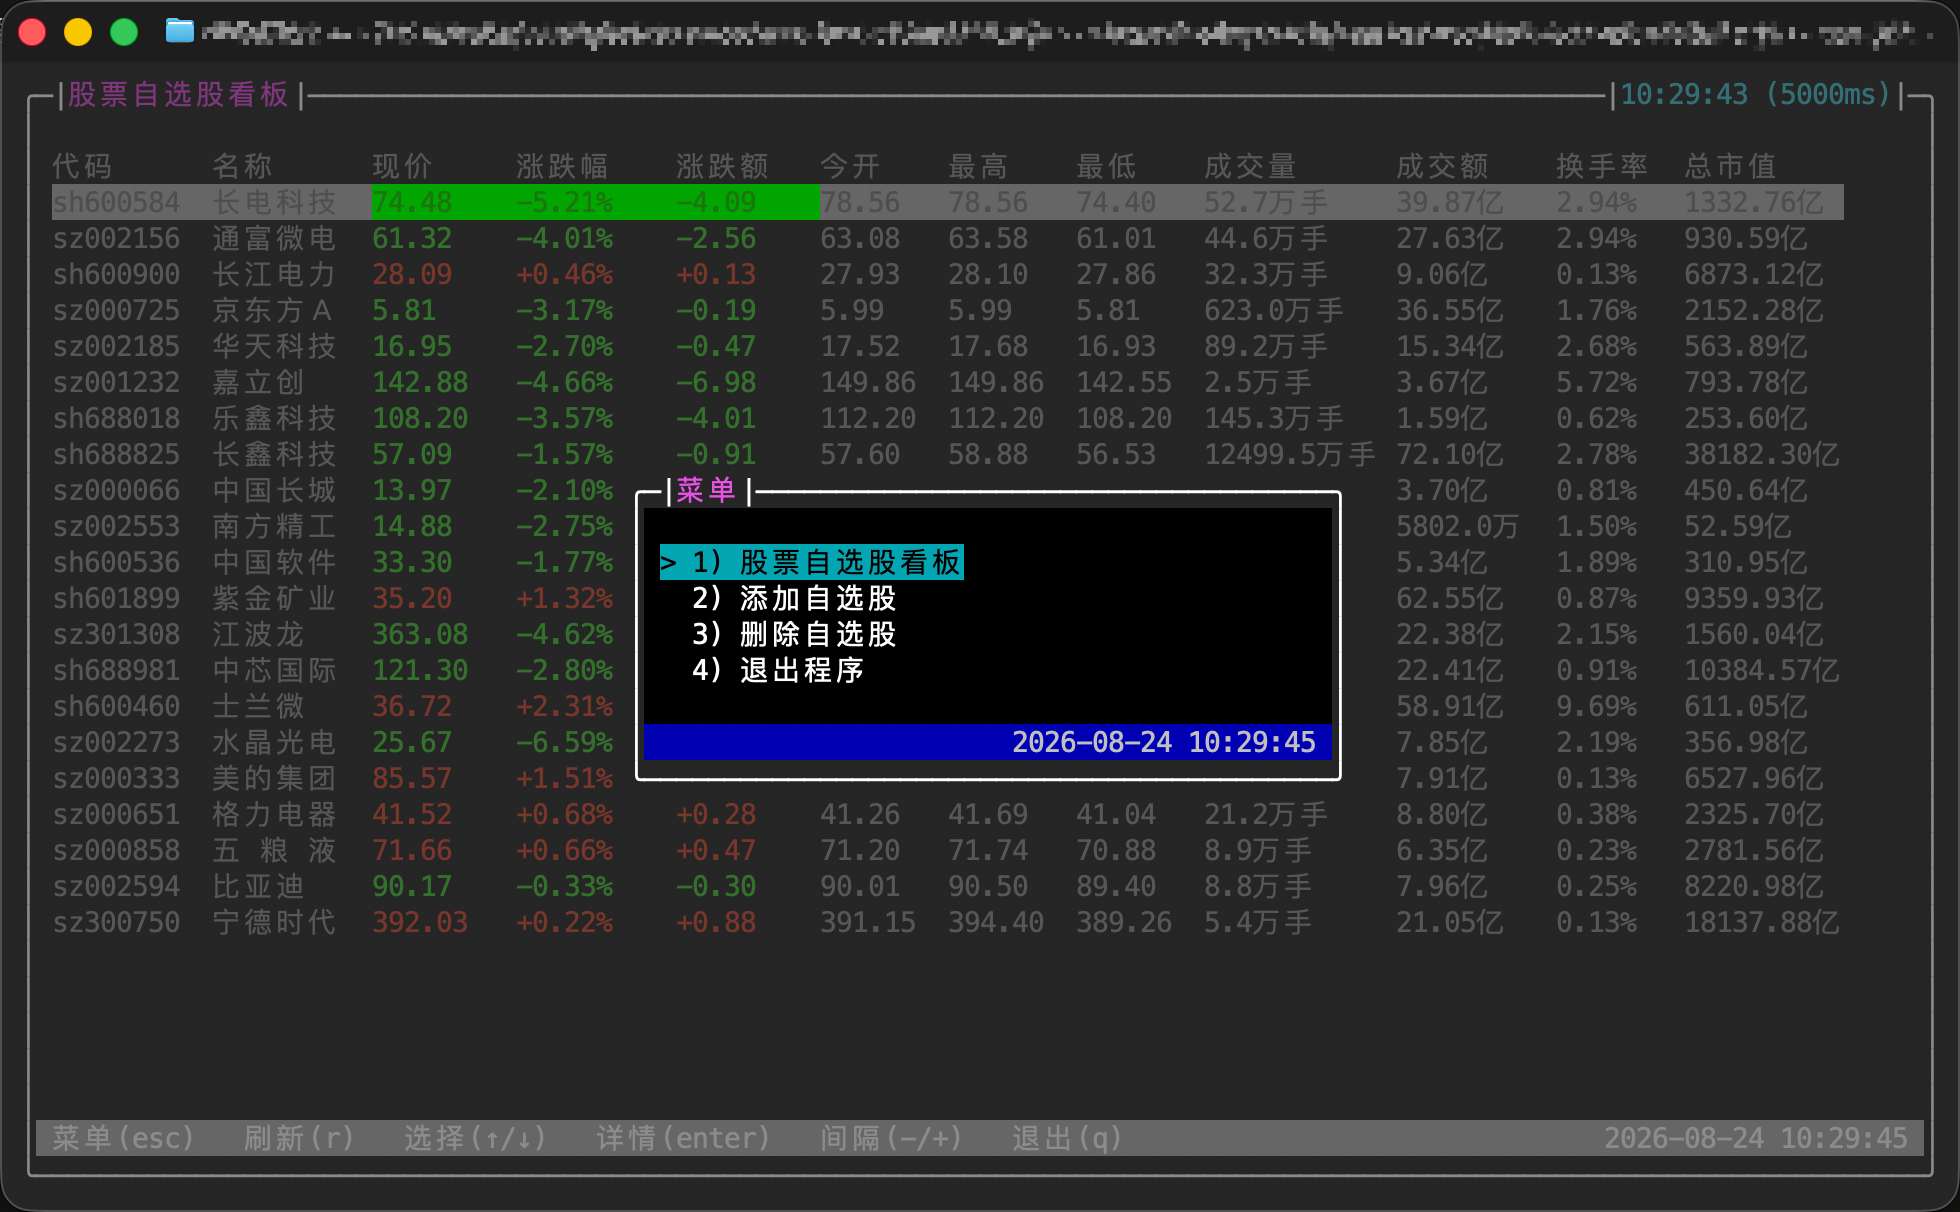
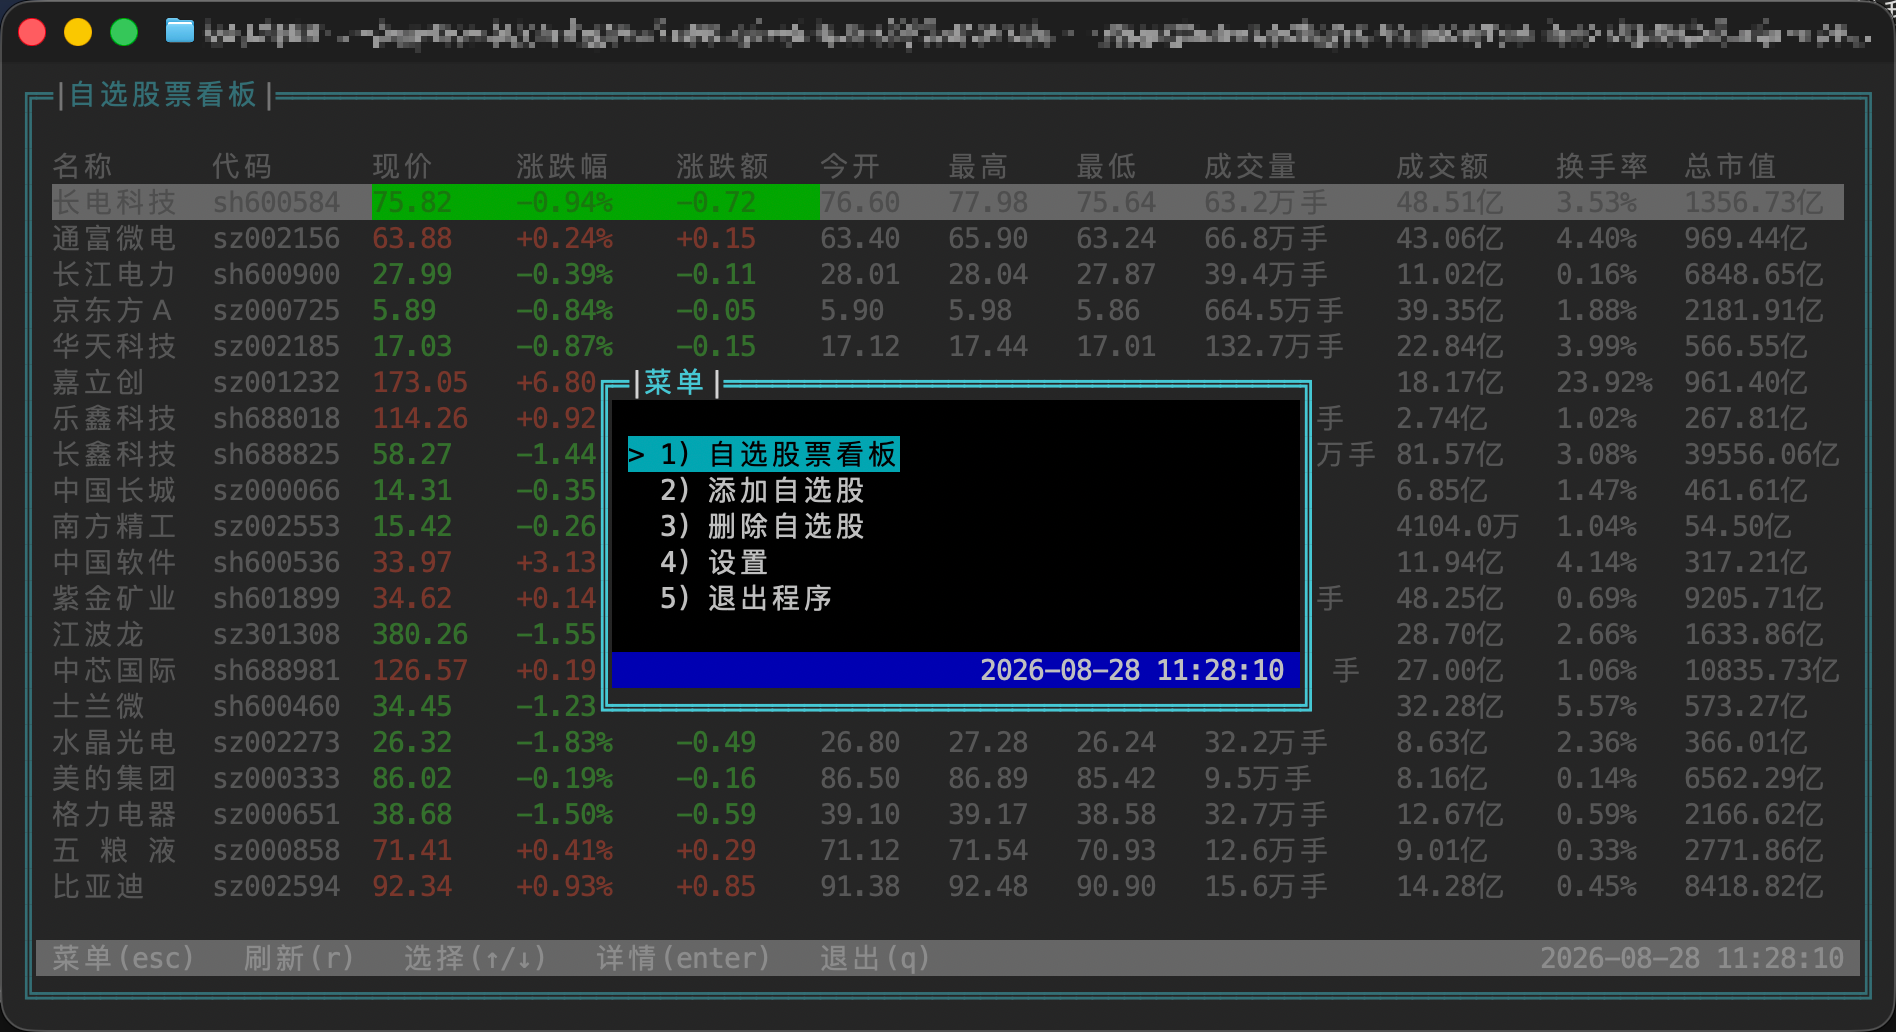
docs: 更新截图并优化 README 预览布局

Changed region(s): [[0.0, 0.0, 1.0, 0.9922]]

diff --git a/README.md b/README.md
@@ -10,34 +10,58 @@
 
 ### Stock Watchlist
 
-![Stock watchlist dashboard](scrennshots/stock-list.png)
+<p align="center">
+  <img src="scrennshots/stock-list.png" alt="Stock watchlist dashboard" width="100%">
+</p>
 
-### Menu
+### Menu & Settings
 
-![Menu dialog](scrennshots/dialog-menu.png)
+<table>
+  <tr>
+    <td align="center" width="50%"><strong>Menu</strong></td>
+    <td align="center" width="50%"><strong>Settings</strong></td>
+  </tr>
+  <tr>
+    <td><img src="scrennshots/dialog-menu.png" alt="Menu dialog"></td>
+    <td><img src="scrennshots/settings.png" alt="Settings screen"></td>
+  </tr>
+</table>
+
+### Manage Watchlist
+
+<table>
+  <tr>
+    <td align="center" width="50%"><strong>Add Stock</strong></td>
+    <td align="center" width="50%"><strong>Remove Stock</strong></td>
+  </tr>
+  <tr>
+    <td><img src="scrennshots/stock-add.png" alt="Add a stock to the watchlist"></td>
+    <td><img src="scrennshots/stock-remove.png" alt="Remove a stock from the watchlist"></td>
+  </tr>
+</table>
 
 ### Stock Details
 
 <table>
   <tr>
-    <td align="center"><strong>Intraday</strong></td>
-    <td align="center"><strong>Five-day</strong></td>
+    <td align="center" width="50%"><strong>Intraday</strong></td>
+    <td align="center" width="50%"><strong>Five-day</strong></td>
   </tr>
   <tr>
     <td><img src="scrennshots/dialog-stock-detail-intraday.png" alt="Intraday stock chart"></td>
     <td><img src="scrennshots/dialog-stock-detail-five-day.png" alt="Five-day stock chart"></td>
   </tr>
   <tr>
-    <td align="center"><strong>Daily</strong></td>
-    <td align="center"><strong>Weekly</strong></td>
+    <td align="center" width="50%"><strong>Daily</strong></td>
+    <td align="center" width="50%"><strong>Weekly</strong></td>
   </tr>
   <tr>
     <td><img src="scrennshots/dialog-stock-detail-day.png" alt="Daily stock chart"></td>
     <td><img src="scrennshots/dialog-stock-detail-week.png" alt="Weekly stock chart"></td>
   </tr>
   <tr>
-    <td align="center"><strong>Monthly</strong></td>
-    <td align="center"><strong>Yearly</strong></td>
+    <td align="center" width="50%"><strong>Monthly</strong></td>
+    <td align="center" width="50%"><strong>Yearly</strong></td>
   </tr>
   <tr>
     <td><img src="scrennshots/dialog-stock-detail-month.png" alt="Monthly stock chart"></td>

diff --git a/README-zh.md b/README-zh.md
@@ -10,34 +10,58 @@
 
 ### 自选股票看板
 
-![自选股票看板](scrennshots/stock-list.png)
+<p align="center">
+  <img src="scrennshots/stock-list.png" alt="自选股票看板" width="100%">
+</p>
 
-### 菜单
+### 菜单与设置
 
-![菜单对话框](scrennshots/dialog-menu.png)
+<table>
+  <tr>
+    <td align="center" width="50%"><strong>菜单</strong></td>
+    <td align="center" width="50%"><strong>设置</strong></td>
+  </tr>
+  <tr>
+    <td><img src="scrennshots/dialog-menu.png" alt="菜单对话框"></td>
+    <td><img src="scrennshots/settings.png" alt="设置界面"></td>
+  </tr>
+</table>
+
+### 自选股管理
+
+<table>
+  <tr>
+    <td align="center" width="50%"><strong>添加自选股</strong></td>
+    <td align="center" width="50%"><strong>删除自选股</strong></td>
+  </tr>
+  <tr>
+    <td><img src="scrennshots/stock-add.png" alt="添加自选股界面"></td>
+    <td><img src="scrennshots/stock-remove.png" alt="删除自选股界面"></td>
+  </tr>
+</table>
 
 ### 股票详情
 
 <table>
   <tr>
-    <td align="center"><strong>分时</strong></td>
-    <td align="center"><strong>五日</strong></td>
+    <td align="center" width="50%"><strong>分时</strong></td>
+    <td align="center" width="50%"><strong>五日</strong></td>
   </tr>
   <tr>
     <td><img src="scrennshots/dialog-stock-detail-intraday.png" alt="分时走势图"></td>
     <td><img src="scrennshots/dialog-stock-detail-five-day.png" alt="五日走势图"></td>
   </tr>
   <tr>
-    <td align="center"><strong>日 K</strong></td>
-    <td align="center"><strong>周 K</strong></td>
+    <td align="center" width="50%"><strong>日 K</strong></td>
+    <td align="center" width="50%"><strong>周 K</strong></td>
   </tr>
   <tr>
     <td><img src="scrennshots/dialog-stock-detail-day.png" alt="日 K 走势图"></td>
     <td><img src="scrennshots/dialog-stock-detail-week.png" alt="周 K 走势图"></td>
   </tr>
   <tr>
-    <td align="center"><strong>月 K</strong></td>
-    <td align="center"><strong>年 K</strong></td>
+    <td align="center" width="50%"><strong>月 K</strong></td>
+    <td align="center" width="50%"><strong>年 K</strong></td>
   </tr>
   <tr>
     <td><img src="scrennshots/dialog-stock-detail-month.png" alt="月 K 走势图"></td>
